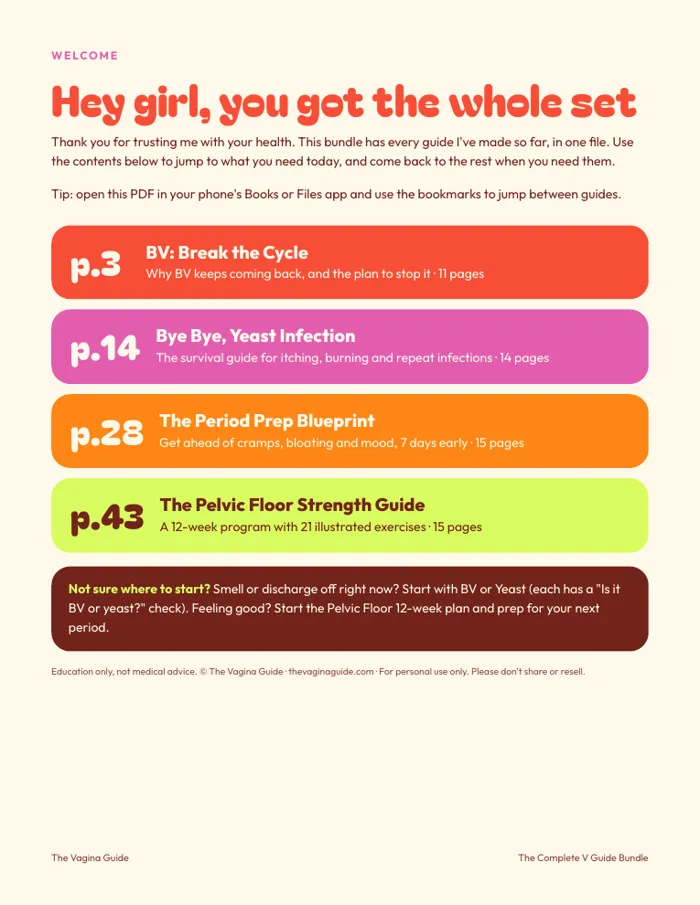
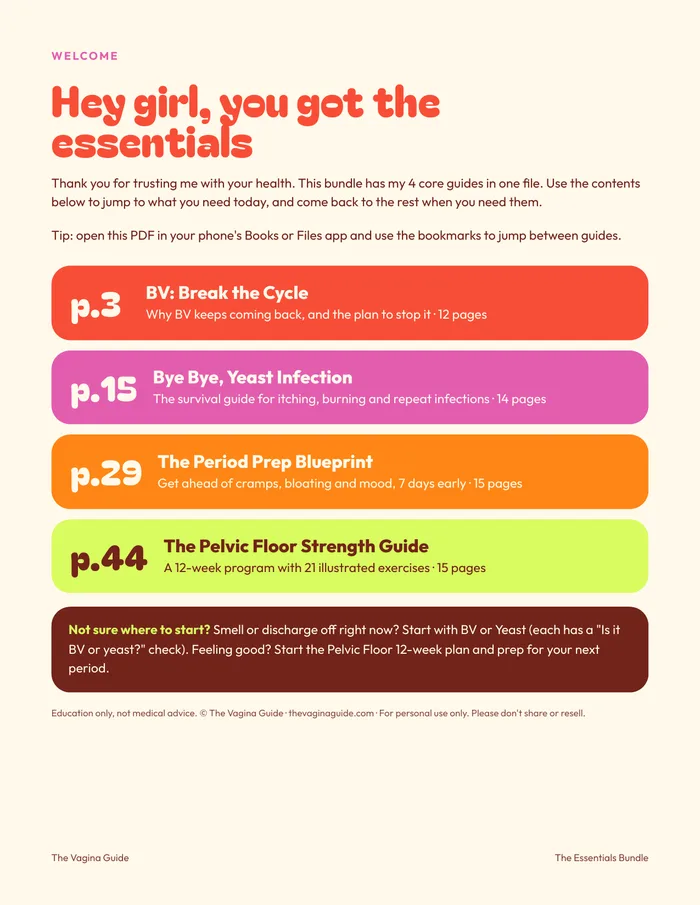
BV guide: add probiotic + fiber reset chapter (12 pages), bundle now 58 pages
Claude-Session: https://claude.ai/code/session_015Z78HqqoimnSZLBJKcrYp7

diff --git a/guides/bv/index.html b/guides/bv/index.html
@@ -53,7 +53,7 @@ pintrk('load','2612737819620');pintrk('page');
 
 <section class="hero">
   <div class="hero__copy">
-    <p class="eyebrow">Digital guide · 11 pages · instant PDF</p>
+    <p class="eyebrow">Digital guide · 12 pages · instant PDF</p>
     <h1>Stop the monthly BV comeback</h1>
     <p class="lede">You finish the antibiotics, feel normal for a few weeks, and then the smell is back. This guide explains why BV keeps returning and gives you a research-backed 30-day plan to break the pattern, plus exactly what to say to your doctor.</p>
     <div style="display:flex;align-items:center;gap:18px;flex-wrap:wrap"><p class="price" style="font-size:44px">$19</p><a class="btn" data-checkout="bv" href="#">Get the guide · $19</a></div>
@@ -64,11 +64,11 @@ pintrk('load','2612737819620');pintrk('page');
   </div>
 </section>
 <section class="section"><div class="wrap stack" style="gap:32px">
-  <div class="stack center"><p class="eyebrow">Peek inside</p><h2>3 of the 11 pages</h2></div>
+  <div class="stack center"><p class="eyebrow">Peek inside</p><h2>3 of the 12 pages</h2></div>
   <div class="grid3"><img src="/assets/img/preview/bv-1.webp" width="700" height="906" loading="lazy" alt="Page 1 preview of BV: Break the Cycle" style="width:100%;height:auto;border:3px solid var(--brown);border-radius:12px;box-shadow:8px 8px 0 var(--brown)"><img src="/assets/img/preview/bv-2.webp" width="700" height="906" loading="lazy" alt="Page 2 preview of BV: Break the Cycle" style="width:100%;height:auto;border:3px solid var(--brown);border-radius:12px;box-shadow:8px 8px 0 var(--brown)"><img src="/assets/img/preview/bv-3.webp" width="700" height="906" loading="lazy" alt="Page 3 preview of BV: Break the Cycle" style="width:100%;height:auto;border:3px solid var(--brown);border-radius:12px;box-shadow:8px 8px 0 var(--brown)"></div>
 </div></section>
 <section class="section bg-lime"><div class="wrap" style="display:grid;grid-template-columns:repeat(auto-fit,minmax(300px,1fr));gap:24px">
-  <article class="card" style="background:#fff;border:3px solid var(--brown)"><h2 style="font-size:36px">What's inside</h2><ul style="margin-top:12px;font-weight:600;line-height:1.6"><li>What BV actually is (and what it isn't)</li><li>Is it BV, yeast or something else? A side-by-side check</li><li>The real reasons it keeps coming back</li><li>Treatment that works, and how to finish it right</li><li>Your 30-day break-the-cycle plan</li><li>The partner piece</li><li>3+ times a year? What to ask about</li><li>Word-for-word doctor script + symptom tracker</li></ul></article>
+  <article class="card" style="background:#fff;border:3px solid var(--brown)"><h2 style="font-size:36px">What's inside</h2><ul style="margin-top:12px;font-weight:600;line-height:1.6"><li>What BV actually is (and what it isn't)</li><li>Is it BV, yeast or something else? A side-by-side check</li><li>The real reasons it keeps coming back</li><li>Treatment that works, and how to finish it right</li><li>Your 30-day break-the-cycle plan</li><li>After treatment: the probiotic + fiber reset (with an easy fiber food list)</li><li>The partner piece</li><li>3+ times a year? What to ask about</li><li>Word-for-word doctor script + symptom tracker</li></ul></article>
   <article class="card" style="background:var(--brown);color:var(--cream)"><h2 style="font-size:36px;color:var(--lime)">This is for you if</h2><ul style="margin-top:12px;font-weight:600;line-height:1.6"><li>You've had BV more than once</li><li>The fishy smell keeps coming back after your period or sex</li><li>You've tried boric acid, probiotics or washes and nothing sticks</li><li>You want a real plan to bring to your doctor</li></ul>
   <div style="margin-top:20px"><a class="btn btn--lime" data-checkout="bv" href="#">Get the guide · $19</a></div></article>
 </div></section>
@@ -82,14 +82,14 @@ pintrk('load','2612737819620');pintrk('page');
   <div class="stack" style="gap:14px">
     <span class="tag" style="align-self:flex-start;background:#D9FB5F;color:#71241A">Best value · save $34</span>
     <h2 style="color:#FFF9EB">The Essentials Bundle</h2>
-    <p class="lede" style="color:#FFF9EB">My 4 core guides in one download: BV, Yeast, Period Prep and Pelvic Floor. 57 pages.</p>
+    <p class="lede" style="color:#FFF9EB">My 4 core guides in one download: BV, Yeast, Period Prep and Pelvic Floor. 58 pages.</p>
     <div style="display:flex;align-items:center;gap:18px;flex-wrap:wrap"><p class="price" style="color:#D9FB5F;font-size:44px">$45</p><p style="color:#FFF9EB;text-decoration:line-through;opacity:.8">$79</p>
     <a class="btn btn--lime" data-checkout="bundle" href="#">Get the bundle</a><button class="btn btn--ghost-light" type="button" data-peek="pv-bundle">What's inside</button></div>
   </div>
 </article>
 <dialog class="peek" id="pv-bundle" aria-label="Inside the bundle"><div class="peek__head"><h3>Inside the bundle</h3><button class="peek__x" type="button" data-close aria-label="Close preview">✕</button></div>
 <div class="peek__pages"><img src="/assets/img/preview/bundle-1.webp" width="700" height="906" loading="lazy" alt="Bundle contents page"><img src="/assets/img/preview/bv-1.webp" width="700" height="906" loading="lazy" alt="BV guide preview"><img src="/assets/img/preview/pelvic-2.webp" width="700" height="906" loading="lazy" alt="Pelvic floor guide preview"></div>
-<div class="peek__foot"><p>4 core guides · 57 pages · <b>$45</b></p><a class="btn" data-checkout="bundle" href="#">Get the bundle</a></div></dialog></div></section>
+<div class="peek__foot"><p>4 core guides · 58 pages · <b>$45</b></p><a class="btn" data-checkout="bundle" href="#">Get the bundle</a></div></dialog></div></section>
 
 </main>
 <footer class="site-footer">

diff --git a/shop/index.html b/shop/index.html
@@ -61,14 +61,14 @@ pintrk('load','2612737819620');pintrk('page');
   <div class="stack" style="gap:14px">
     <span class="tag" style="align-self:flex-start;background:#D9FB5F;color:#71241A">Best value · save $34</span>
     <h2 style="color:#FFF9EB">The Essentials Bundle</h2>
-    <p class="lede" style="color:#FFF9EB">My 4 core guides in one download: BV, Yeast, Period Prep and Pelvic Floor. 57 pages.</p>
+    <p class="lede" style="color:#FFF9EB">My 4 core guides in one download: BV, Yeast, Period Prep and Pelvic Floor. 58 pages.</p>
     <div style="display:flex;align-items:center;gap:18px;flex-wrap:wrap"><p class="price" style="color:#D9FB5F;font-size:44px">$45</p><p style="color:#FFF9EB;text-decoration:line-through;opacity:.8">$79</p>
     <a class="btn btn--lime" data-checkout="bundle" href="#">Get the bundle</a><button class="btn btn--ghost-light" type="button" data-peek="pv-bundle">What's inside</button></div>
   </div>
 </article>
 <dialog class="peek" id="pv-bundle" aria-label="Inside the bundle"><div class="peek__head"><h3>Inside the bundle</h3><button class="peek__x" type="button" data-close aria-label="Close preview">✕</button></div>
 <div class="peek__pages"><img src="/assets/img/preview/bundle-1.webp" width="700" height="906" loading="lazy" alt="Bundle contents page"><img src="/assets/img/preview/bv-1.webp" width="700" height="906" loading="lazy" alt="BV guide preview"><img src="/assets/img/preview/pelvic-2.webp" width="700" height="906" loading="lazy" alt="Pelvic floor guide preview"></div>
-<div class="peek__foot"><p>4 core guides · 57 pages · <b>$45</b></p><a class="btn" data-checkout="bundle" href="#">Get the bundle</a></div></dialog><div class="grid4"><article class="product" id="bv" style="scroll-margin-top:90px">
+<div class="peek__foot"><p>4 core guides · 58 pages · <b>$45</b></p><a class="btn" data-checkout="bundle" href="#">Get the bundle</a></div></dialog><div class="grid4"><article class="product" id="bv" style="scroll-margin-top:90px">
   <a class="product__cover" href="/guides/bv/" style="background:#F84E37"><img src="/assets/img/covers/bv-v1.webp" width="520" height="673" loading="lazy" alt="BV: Break the Cycle guide cover"></a>
   <div class="product__body">
     <h3 style="font-size:24px"><a href="/guides/bv/" style="color:inherit;text-decoration:none">BV: Break the Cycle</a></h3>

diff --git a/thanks/index.html b/thanks/index.html
@@ -84,14 +84,14 @@ pintrk('load','2612737819620');pintrk('page');pintrk('track','lead');
   <div class="stack" style="gap:14px">
     <span class="tag" style="align-self:flex-start;background:#D9FB5F;color:#71241A">Best value · save $34</span>
     <h2 style="color:#FFF9EB">The Essentials Bundle</h2>
-    <p class="lede" style="color:#FFF9EB">My 4 core guides in one download: BV, Yeast, Period Prep and Pelvic Floor. 57 pages.</p>
+    <p class="lede" style="color:#FFF9EB">My 4 core guides in one download: BV, Yeast, Period Prep and Pelvic Floor. 58 pages.</p>
     <div style="display:flex;align-items:center;gap:18px;flex-wrap:wrap"><p class="price" style="color:#D9FB5F;font-size:44px">$45</p><p style="color:#FFF9EB;text-decoration:line-through;opacity:.8">$79</p>
     <a class="btn btn--lime" data-checkout="bundle" href="#">Get the bundle</a><button class="btn btn--ghost-light" type="button" data-peek="pv-bundle">What's inside</button></div>
   </div>
 </article>
 <dialog class="peek" id="pv-bundle" aria-label="Inside the bundle"><div class="peek__head"><h3>Inside the bundle</h3><button class="peek__x" type="button" data-close aria-label="Close preview">✕</button></div>
 <div class="peek__pages"><img src="/assets/img/preview/bundle-1.webp" width="700" height="906" loading="lazy" alt="Bundle contents page"><img src="/assets/img/preview/bv-1.webp" width="700" height="906" loading="lazy" alt="BV guide preview"><img src="/assets/img/preview/pelvic-2.webp" width="700" height="906" loading="lazy" alt="Pelvic floor guide preview"></div>
-<div class="peek__foot"><p>4 core guides · 57 pages · <b>$45</b></p><a class="btn" data-checkout="bundle" href="#">Get the bundle</a></div></dialog>
+<div class="peek__foot"><p>4 core guides · 58 pages · <b>$45</b></p><a class="btn" data-checkout="bundle" href="#">Get the bundle</a></div></dialog>
 </div></section>
 <section class="section bg-red"><div class="wrap stack center" style="max-width:820px">
   <p class="eyebrow" style="color:var(--lime)">Free private community</p>

diff --git a/index.html b/index.html
@@ -188,14 +188,14 @@ pintrk('load','2612737819620');pintrk('page');
   <div class="stack" style="gap:14px">
     <span class="tag" style="align-self:flex-start;background:#D9FB5F;color:#71241A">Best value · save $34</span>
     <h2 style="color:#FFF9EB">The Essentials Bundle</h2>
-    <p class="lede" style="color:#FFF9EB">My 4 core guides in one download: BV, Yeast, Period Prep and Pelvic Floor. 57 pages.</p>
+    <p class="lede" style="color:#FFF9EB">My 4 core guides in one download: BV, Yeast, Period Prep and Pelvic Floor. 58 pages.</p>
     <div style="display:flex;align-items:center;gap:18px;flex-wrap:wrap"><p class="price" style="color:#D9FB5F;font-size:44px">$45</p><p style="color:#FFF9EB;text-decoration:line-through;opacity:.8">$79</p>
     <a class="btn btn--lime" data-checkout="bundle" href="#">Get the bundle</a><button class="btn btn--ghost-light" type="button" data-peek="pv-bundle">What's inside</button></div>
   </div>
 </article>
 <dialog class="peek" id="pv-bundle" aria-label="Inside the bundle"><div class="peek__head"><h3>Inside the bundle</h3><button class="peek__x" type="button" data-close aria-label="Close preview">✕</button></div>
 <div class="peek__pages"><img src="/assets/img/preview/bundle-1.webp" width="700" height="906" loading="lazy" alt="Bundle contents page"><img src="/assets/img/preview/bv-1.webp" width="700" height="906" loading="lazy" alt="BV guide preview"><img src="/assets/img/preview/pelvic-2.webp" width="700" height="906" loading="lazy" alt="Pelvic floor guide preview"></div>
-<div class="peek__foot"><p>4 core guides · 57 pages · <b>$45</b></p><a class="btn" data-checkout="bundle" href="#">Get the bundle</a></div></dialog>
+<div class="peek__foot"><p>4 core guides · 58 pages · <b>$45</b></p><a class="btn" data-checkout="bundle" href="#">Get the bundle</a></div></dialog>
 </div></section>
 
 <section class="section bg-lime" id="apps"><div class="wrap stack center" style="max-width:1000px">

diff --git a/guides/pelvic/index.html b/guides/pelvic/index.html
@@ -82,14 +82,14 @@ pintrk('load','2612737819620');pintrk('page');
   <div class="stack" style="gap:14px">
     <span class="tag" style="align-self:flex-start;background:#D9FB5F;color:#71241A">Best value · save $34</span>
     <h2 style="color:#FFF9EB">The Essentials Bundle</h2>
-    <p class="lede" style="color:#FFF9EB">My 4 core guides in one download: BV, Yeast, Period Prep and Pelvic Floor. 57 pages.</p>
+    <p class="lede" style="color:#FFF9EB">My 4 core guides in one download: BV, Yeast, Period Prep and Pelvic Floor. 58 pages.</p>
     <div style="display:flex;align-items:center;gap:18px;flex-wrap:wrap"><p class="price" style="color:#D9FB5F;font-size:44px">$45</p><p style="color:#FFF9EB;text-decoration:line-through;opacity:.8">$79</p>
     <a class="btn btn--lime" data-checkout="bundle" href="#">Get the bundle</a><button class="btn btn--ghost-light" type="button" data-peek="pv-bundle">What's inside</button></div>
   </div>
 </article>
 <dialog class="peek" id="pv-bundle" aria-label="Inside the bundle"><div class="peek__head"><h3>Inside the bundle</h3><button class="peek__x" type="button" data-close aria-label="Close preview">✕</button></div>
 <div class="peek__pages"><img src="/assets/img/preview/bundle-1.webp" width="700" height="906" loading="lazy" alt="Bundle contents page"><img src="/assets/img/preview/bv-1.webp" width="700" height="906" loading="lazy" alt="BV guide preview"><img src="/assets/img/preview/pelvic-2.webp" width="700" height="906" loading="lazy" alt="Pelvic floor guide preview"></div>
-<div class="peek__foot"><p>4 core guides · 57 pages · <b>$45</b></p><a class="btn" data-checkout="bundle" href="#">Get the bundle</a></div></dialog></div></section>
+<div class="peek__foot"><p>4 core guides · 58 pages · <b>$45</b></p><a class="btn" data-checkout="bundle" href="#">Get the bundle</a></div></dialog></div></section>
 
 </main>
 <footer class="site-footer">

diff --git a/guides/period/index.html b/guides/period/index.html
@@ -82,14 +82,14 @@ pintrk('load','2612737819620');pintrk('page');
   <div class="stack" style="gap:14px">
     <span class="tag" style="align-self:flex-start;background:#D9FB5F;color:#71241A">Best value · save $34</span>
     <h2 style="color:#FFF9EB">The Essentials Bundle</h2>
-    <p class="lede" style="color:#FFF9EB">My 4 core guides in one download: BV, Yeast, Period Prep and Pelvic Floor. 57 pages.</p>
+    <p class="lede" style="color:#FFF9EB">My 4 core guides in one download: BV, Yeast, Period Prep and Pelvic Floor. 58 pages.</p>
     <div style="display:flex;align-items:center;gap:18px;flex-wrap:wrap"><p class="price" style="color:#D9FB5F;font-size:44px">$45</p><p style="color:#FFF9EB;text-decoration:line-through;opacity:.8">$79</p>
     <a class="btn btn--lime" data-checkout="bundle" href="#">Get the bundle</a><button class="btn btn--ghost-light" type="button" data-peek="pv-bundle">What's inside</button></div>
   </div>
 </article>
 <dialog class="peek" id="pv-bundle" aria-label="Inside the bundle"><div class="peek__head"><h3>Inside the bundle</h3><button class="peek__x" type="button" data-close aria-label="Close preview">✕</button></div>
 <div class="peek__pages"><img src="/assets/img/preview/bundle-1.webp" width="700" height="906" loading="lazy" alt="Bundle contents page"><img src="/assets/img/preview/bv-1.webp" width="700" height="906" loading="lazy" alt="BV guide preview"><img src="/assets/img/preview/pelvic-2.webp" width="700" height="906" loading="lazy" alt="Pelvic floor guide preview"></div>
-<div class="peek__foot"><p>4 core guides · 57 pages · <b>$45</b></p><a class="btn" data-checkout="bundle" href="#">Get the bundle</a></div></dialog></div></section>
+<div class="peek__foot"><p>4 core guides · 58 pages · <b>$45</b></p><a class="btn" data-checkout="bundle" href="#">Get the bundle</a></div></dialog></div></section>
 
 </main>
 <footer class="site-footer">

diff --git a/guides/yeast/index.html b/guides/yeast/index.html
@@ -82,14 +82,14 @@ pintrk('load','2612737819620');pintrk('page');
   <div class="stack" style="gap:14px">
     <span class="tag" style="align-self:flex-start;background:#D9FB5F;color:#71241A">Best value · save $34</span>
     <h2 style="color:#FFF9EB">The Essentials Bundle</h2>
-    <p class="lede" style="color:#FFF9EB">My 4 core guides in one download: BV, Yeast, Period Prep and Pelvic Floor. 57 pages.</p>
+    <p class="lede" style="color:#FFF9EB">My 4 core guides in one download: BV, Yeast, Period Prep and Pelvic Floor. 58 pages.</p>
     <div style="display:flex;align-items:center;gap:18px;flex-wrap:wrap"><p class="price" style="color:#D9FB5F;font-size:44px">$45</p><p style="color:#FFF9EB;text-decoration:line-through;opacity:.8">$79</p>
     <a class="btn btn--lime" data-checkout="bundle" href="#">Get the bundle</a><button class="btn btn--ghost-light" type="button" data-peek="pv-bundle">What's inside</button></div>
   </div>
 </article>
 <dialog class="peek" id="pv-bundle" aria-label="Inside the bundle"><div class="peek__head"><h3>Inside the bundle</h3><button class="peek__x" type="button" data-close aria-label="Close preview">✕</button></div>
 <div class="peek__pages"><img src="/assets/img/preview/bundle-1.webp" width="700" height="906" loading="lazy" alt="Bundle contents page"><img src="/assets/img/preview/bv-1.webp" width="700" height="906" loading="lazy" alt="BV guide preview"><img src="/assets/img/preview/pelvic-2.webp" width="700" height="906" loading="lazy" alt="Pelvic floor guide preview"></div>
-<div class="peek__foot"><p>4 core guides · 57 pages · <b>$45</b></p><a class="btn" data-checkout="bundle" href="#">Get the bundle</a></div></dialog></div></section>
+<div class="peek__foot"><p>4 core guides · 58 pages · <b>$45</b></p><a class="btn" data-checkout="bundle" href="#">Get the bundle</a></div></dialog></div></section>
 
 </main>
 <footer class="site-footer">
